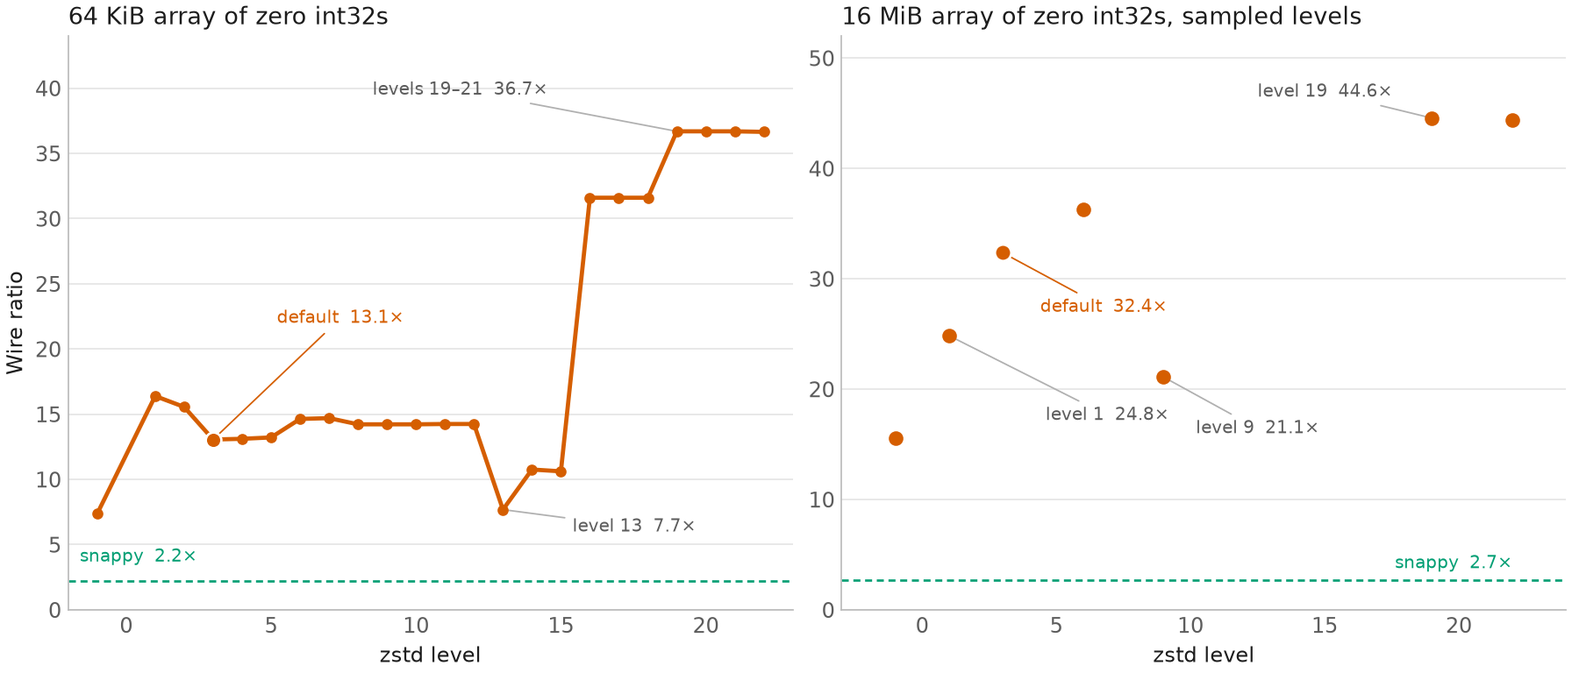
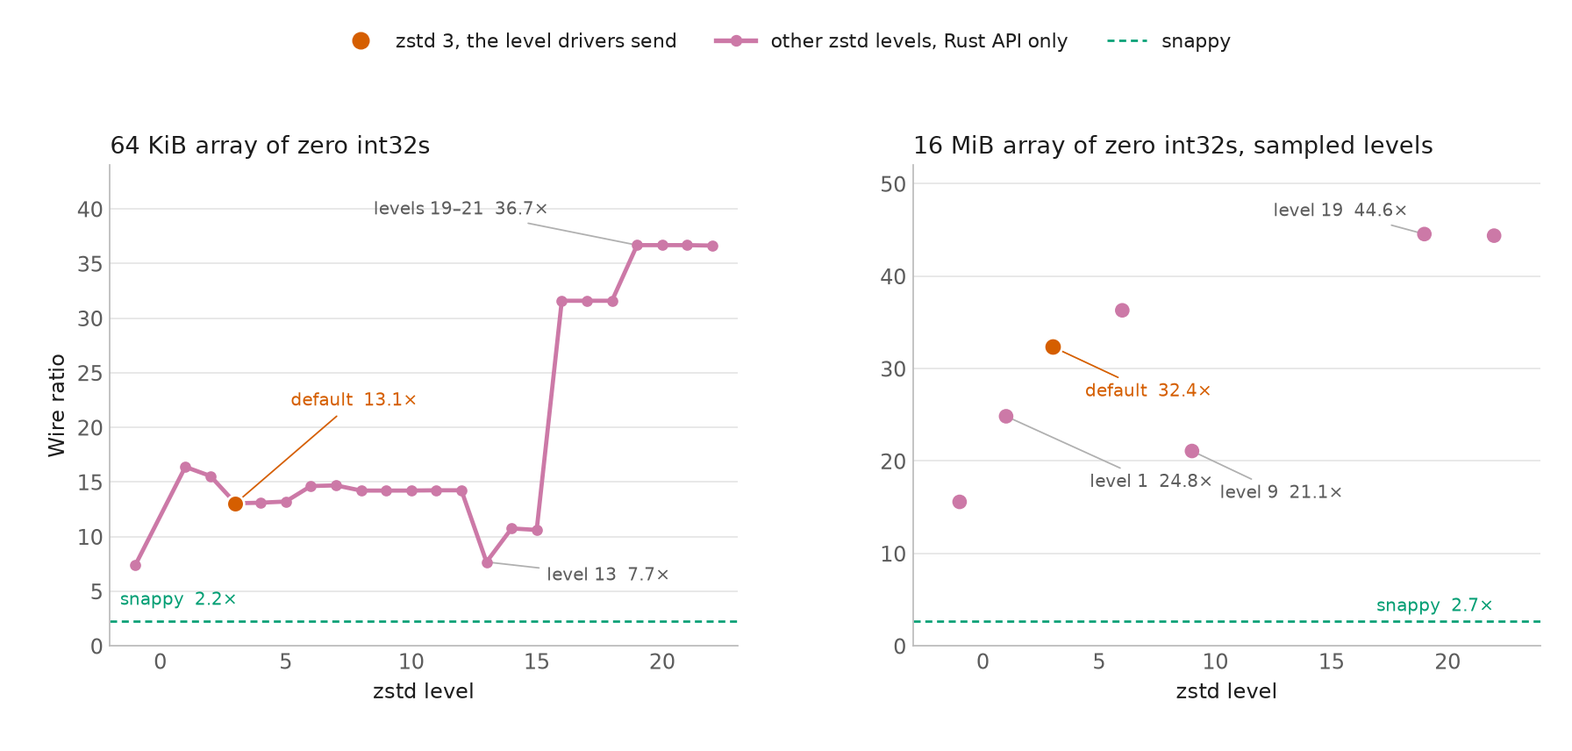
note which compressor levels the drivers can set

diff --git a/src/compressor-charts.py b/src/compressor-charts.py
@@ -24,6 +24,7 @@ with open(ROOT / "compressor-analysis.json") as f:
 
 ZLIB = "#0072B2"
 ZSTD = "#D55E00"
+RUST = "#CC79A7"
 SNAP = "#009E73"
 GRID = "#E6E6E6"
 INK = "#1c1c1c"
@@ -218,7 +219,8 @@ def combined_chart():
 
 
 def level_chart():
-    fig, axes = plt.subplots(1, 2, figsize=(11.2, 4.8), constrained_layout=True)
+    fig, axes = plt.subplots(1, 2, figsize=(11.2, 5.35))
+    fig.subplots_adjust(top=0.78, wspace=0.28, bottom=0.14, left=0.07, right=0.98)
 
     left = axes[0]
     rows = [
@@ -229,10 +231,10 @@ def level_chart():
     rows.sort(key=lambda r: r["level"])
     xs = [r["level"] for r in rows]
     ys = [r["wireRatio"] for r in rows]
-    left.plot(xs, ys, color=ZSTD, lw=2.15, zorder=3)
-    left.scatter(xs, ys, color=ZSTD, s=22, zorder=4)
+    left.plot(xs, ys, color=RUST, lw=2.15, zorder=3)
+    left.scatter(xs, ys, color=RUST, s=22, zorder=4)
     default = next(r for r in rows if r["level"] == 3)
-    left.scatter([3], [default["wireRatio"]], s=64, color=ZSTD, zorder=5, edgecolor="white", linewidth=1.2)
+    left.scatter([3], [default["wireRatio"]], s=78, color=ZSTD, zorder=5, edgecolor="white", linewidth=1.2)
     left.annotate(
         "default  13.1×",
         xy=(3, default["wireRatio"]),
@@ -284,12 +286,18 @@ def level_chart():
         and r["level"] in sampled
     ]
     mrows.sort(key=lambda r: r["level"])
-    right.scatter([r["level"] for r in mrows], [r["wireRatio"] for r in mrows], color=ZSTD, s=42, zorder=4)
+    right.scatter(
+        [r["level"] for r in mrows],
+        [r["wireRatio"] for r in mrows],
+        c=[ZSTD if r["level"] == 3 else RUST for r in mrows],
+        s=42,
+        zorder=4,
+    )
     d = next(r for r in mrows if r["level"] == 3)
     one = next(r for r in mrows if r["level"] == 1)
     nine = next(r for r in mrows if r["level"] == 9)
     top = next(r for r in mrows if r["level"] == 19)
-    right.scatter([3], [d["wireRatio"]], s=70, color=ZSTD, zorder=5, edgecolor="white", linewidth=1.2)
+    right.scatter([3], [d["wireRatio"]], s=84, color=ZSTD, zorder=5, edgecolor="white", linewidth=1.2)
     right.annotate("default  32.4×", xy=(3, d["wireRatio"]), xytext=(4.4, 27), fontsize=9, color=ZSTD,
                    arrowprops={"arrowstyle": "-", "color": ZSTD, "lw": 0.8})
     right.annotate("level 1  24.8×", xy=(1, one["wireRatio"]), xytext=(4.6, 17.2), fontsize=9, color=MUTED,
@@ -307,6 +315,15 @@ def level_chart():
     right.set_title("16 MiB array of zero int32s, sampled levels", loc="left", fontsize=12)
     right.grid(True, axis="y", color=GRID, lw=0.8)
     right.tick_params(length=0)
+    right.spines["top"].set_visible(False)
+    right.spines["right"].set_visible(False)
+
+    handles = [
+        Line2D([0], [0], color=ZSTD, marker="o", lw=0, ms=8, label="zstd 3, the level drivers send"),
+        Line2D([0], [0], color=RUST, lw=2.4, marker="o", ms=5, label="other zstd levels, Rust API only"),
+        Line2D([0], [0], color=SNAP, lw=1.2, ls=(0, (3, 2)), label="snappy"),
+    ]
+    fig.legend(handles=handles, loc="upper center", frameon=False, ncol=3, fontsize=10, bbox_to_anchor=(0.5, 0.98))
 
     fig.savefig(OUT / "levels.png", dpi=160)
     plt.close(fig)

diff --git a/Compressor analysis.md b/Compressor analysis.md
@@ -8,19 +8,21 @@ The pictures are the length surface of each carrier, then all five carriers on o
 
 ## Summary
 
-Repetitive BSON shrinks, and zstd shrinks it harder than zlib or snappy. On a 16 MiB string of zeros, zstd at its usual level reaches 28,728×, zlib 1,026×, and snappy 21×. A 16 MiB array of zero doubles still reaches 86× with zstd. An array of zero int32s does not, because the keys `"0"`, `"1"`, and so on are still in the document: zstd gets to 32×, zlib to 5.2×, snappy to 2.7×.
+Repetitive BSON shrinks, and zstd shrinks it harder than zlib or snappy. On a 16 MiB string of zeros, zstd at level 3 reaches 28,728×, zlib 1,026×, and snappy 21×. A 16 MiB array of zero doubles still reaches 86.4× with zstd. An array of zero int32s does not, because the keys `"0"`, `"1"`, and so on are still in the document: zstd gets to 32.4×, zlib to 5.2×, snappy to 2.7×.
 
-Random bytes do not shrink. A 16 MiB cryptographic binary is longer after framing for every compressor and every level in this grid. zstd adds 406 bytes, snappy 778, zlib 2,660. A random printable string measures about 6.55 bits per byte. It looks like text. zlib and zstd get it down to about 1.21×. Snappy is still 777 bytes over at 16 MiB.
+Random bytes do not shrink. A 16 MiB cryptographic binary is longer after framing for every compressor and every level in this grid. At the levels on the length charts, zstd adds 406 bytes, snappy 778, and zlib 2,660. A random printable string measures about 6.55 bits per byte. It looks like text. zlib and zstd get it down to about 1.21×. Snappy is still 777 bytes longer at 16 MiB.
 
 The saving does not start at the first byte. Under a few dozen bytes the 25-byte frame costs more than the compressor gives back. The Node driver and the Rust driver have no small-message cutoff, so that larger frame is what goes out.
 
-zstd level 3 is the usual client setting, and it is the level the server uses when it compresses a reply. It is a strong default, and it is not the top of the curve. On a 64 KiB array of zero int32s, level 1 is tighter than level 3, level 13 falls to 7.7×, and levels 19–21 reach 36.7×. On the 16 MiB version of that array the order changes, and level 3 beats level 1.
+zstd level 3 is the level these drivers send when zstd is left unset, and it is the level the server uses when it compresses a reply. It is a strong default, and it is not the top of the curve. On a 64 KiB array of zero int32s, level 1 is tighter than level 3, level 13 falls to 7.7×, and levels 19–21 reach 36.7×. Those other levels are a Rust-only request. On the 16 MiB version of that array the order changes, and level 3 beats level 1.
 
 ## How to read the charts
 
 Each carrier chart has three panels. The top is repetitive (rung 1), the middle is mixed (rung 5), and the bottom is nearly random (rung 10). The horizontal axis is the target document size, on a log scale, from 1 byte to the largest legal BSON document, 16 MiB. The vertical axis is the wire ratio, also on a log scale. Each panel has its own vertical scale, so a 20× curve and a 20,000× curve can both be read.
 
-Blue is zlib at level 6. On every paired cell in this grid, zlib level −1 matches level 6, and level 6 is what an omitted zlib level means on the Node driver. Orange is zstd at level 3, which is `zstd::DEFAULT_COMPRESSION_LEVEL`, the Rust driver's unset level, the Node driver's only level, and the server's reply. Green is snappy. Snappy has no level. The dashed line is a ratio of 1. Above it, the framed message is smaller. The pale vertical line is the first target that holds a real BSON document. To the left of that line the buffer is raw bytes.
+Blue is zlib at level 6. Level −1 matches it on every paired cell, and −1 is the library default. Orange is zstd at level 3, the level these drivers send when zstd is left unset, and the level the server uses on a reply. Green is snappy. Snappy has no level. The dashed line is a ratio of 1. Above it, the framed message is smaller. Below it, the frame made the message larger. The pale vertical line is the first target that holds a real BSON document. To the left of that line the buffer is raw bytes.
+
+The length charts draw those three defaults. The [level chart](#zstd-levels) draws every other measured zstd level in purple. Purple is a level the Rust driver can set in code. The connection string has no zstd level.
 
 The bits/byte in each panel title are measured on that panel's 64 KiB document. The rung number is the name of the generator. It is not the entropy.
 
@@ -51,6 +53,8 @@ The libraries are snap 1.1.2 (raw Snappy, the same framing as the server's `snap
 
 [`src/compressor-probe`](src/compressor-probe) is that program. With no arguments it writes `/tmp/compressor-grid.json` and `/tmp/compressor-digest.txt`. Two arguments are those two paths. It leaves the published grid where it is. Rung 10 is drawn again on every run, so a new file will not match the published rung 10 rows. [`src/compressor-charts.py`](src/compressor-charts.py) redraws the pictures from the JSON.
 
+The probe calls the Rust driver's libraries because that driver can name a zstd level and the others checked here cannot. The [compression spec](https://github.com/mongodb/specifications/blob/master/source/compression/OP_COMPRESSED.md) defines one level, `zlibCompressionLevel`, from −1 to 9. It calls −1 the library default, 0 no compression, 1 the fastest, and 9 the best compression. Snappy has no level. zstd was added later, and the spec still has no zstd level. Rust mongodb 3.10.1 exposes `Compressor::Zstd { level }` anyway: any value `zstd::compression_level_range()` returns, or `None` for level 3. The URI still only carries the zlib level. The [level chart](#zstd-levels) draws the Rust-only levels in purple, and the table under it lists what Node, PyMongo, and the Java driver can set.
+
 Wire compressor ids are noop 0, snappy 1, zlib 2, zstd 3. The length curves use zlib 6, zstd 3, and snappy, at rungs 1, 5, and 10. zstd levels 10–22 are on the 64 KiB sweep, and levels 19 and 22 are also on the 16 MiB sample for int32 and binary. They are not on the length curves. The full cross of every level, every rung, and every size was not run.
 
 | Slice | What it is |
@@ -66,7 +70,7 @@ Wire compressor ids are noop 0, snappy 1, zlib 2, zstd 3. The length curves use 
 
 An int32 array never becomes a run of zeros. Even rung 1 carries the keys, so the top panel tops out in the tens rather than the thousands. zstd pulls away from zlib once the document is past a few hundred bytes and finishes at 32.4×, against 5.2× for zlib and 2.7× for snappy. The middle panel is the same shape with a lower ceiling: 30.2× for zstd at 16 MiB.
 
-The bottom panel is a fresh cryptographic draw in each integer, and it still shrinks. The keys and the 4-byte layout keep the 64 KiB document near 6.14 bits/byte rather than 8, and zstd finishes at 1.84×. Snappy is the late one. It is still longer than the original at 64 KiB (14 bytes over, ratio 0.999786) and crosses under at 128 KiB. zlib and zstd have already crossed at 256 bytes.
+The bottom panel is a fresh cryptographic draw in each integer, and it still shrinks. The keys and the 4-byte layout keep the 64 KiB document near 6.14 bits/byte rather than 8, and zstd finishes at 1.84×. Snappy is the late one. It is still below the line at 64 KiB (14 bytes longer, ratio 0.999786) and above it from 128 KiB. zlib and zstd are still below the line at 256 bytes and above it from 512.
 
 The orange line is not smooth. zstd at level 3 gains, flattens, and gains again as the array grows. That is the same compressor refusing to be a straight function of size. The level chart later shows it refusing to be a straight function of the level either.
 
@@ -76,17 +80,17 @@ The orange line is not smooth. zstd at level 3 gains, flattens, and gains again 
 
 Zero doubles have more repeated bytes than zero int32s, and the ceiling shows it. zstd finishes the top panel at 86.4×, zlib at 6.7×, snappy at 3.2×.
 
-Look at the pale line in the top panel. That is the first real document, 56 bytes inside a 64-byte target. zstd is already under the original on the 32-byte raw buffer (ratio 1.142857) and pops back over the line on that first document (0.974684). From 128 bytes on it stays under. The dip is the change from a raw buffer to a document, not a change in the compressor. Snappy does a smaller version of the same notch on the middle panel: under on the 32-byte raw buffer (1.043478), one byte over on the first document (0.987179), then under from 128 bytes.
+Look at the pale line in the top panel. That is the first real document, 56 bytes inside a 64-byte target. zstd is already above the line on the 32-byte raw buffer (ratio 1.142857) and drops back below it on that first document (0.974684). From 128 bytes on it stays above. The dip is the change from a raw buffer to a document, not a change in the compressor. Snappy does a smaller version of the same notch on the middle panel: above the line on the 32-byte raw buffer (1.043478), one byte longer on the first document (0.987179), then above the line from 128 bytes.
 
-On nearly random doubles, zlib and zstd cross under at 512 bytes and finish near 1.45× and 1.47×. Snappy needs the document to pass 64 KiB. It is under by 1 MiB, at 1.087×, and 1.128× at the max document. On the repetitive panel, snappy's last over target is 16 bytes. zstd's is 64, because of that notch at the first document.
+On nearly random doubles, zlib and zstd are still below the line at 512 bytes and above it from 1 KiB, finishing near 1.45× and 1.47×. Snappy is still below the line at 64 KiB and above it from 128 KiB. It is 1.087× at 1 MiB and 1.128× on the max document. On the repetitive panel, snappy's last target below the line is 16 bytes. zstd's is 64, because of that notch at the first document.
 
 ## decimal128
 
 ![decimal128 wire ratio against document size, for repetitive, mixed, and nearly random values](compressor-analysis/decimal128.png)
 
-Until the bytes are actually random, this is the most compressible number in the set. The value lives in the low bytes and the high bytes stay zero, so a zero decimal128 is mostly a run of zeros with a little structure. The 64 KiB document measures 1.457 bits/byte. zstd finishes rung 1 at 60.3×, zlib at 9.1×, snappy at 4.8×. On this rung all three are still longer than the original at 16 bytes and shorter from 32 bytes on. Snappy then loses the ratio.
+Until the bytes are actually random, this is the most compressible number in the set. The value lives in the low bytes and the high bytes stay zero, so a zero decimal128 is mostly a run of zeros with a little structure. The 64 KiB document measures 1.457 bits/byte. zstd finishes rung 1 at 60.3×, zlib at 9.1×, snappy at 4.8×. On this rung all three are still below the line at 16 bytes and above it from 32. At 32 bytes snappy is the tightest of the three, 1.55×, and from 128 bytes it falls behind.
 
-Rung 10 fills all 16 bytes from the CSPRNG. Those bytes are not a validated Decimal128. The 64 KiB document is the noisiest number in the grid, 7.476 bits/byte, and the win shrinks to 1.25× for zstd, 1.23× for zlib, and 1.08× for snappy. Snappy is over through 64 KiB and under from 128 KiB, same as the other numeric rung-10 rows.
+Rung 10 fills all 16 bytes from the CSPRNG. Those bytes are not a validated Decimal128. The 64 KiB document is the noisiest number in the grid, 7.476 bits/byte. At that size zstd is 1.06× and zlib is 1.12×. Snappy stays below the line through 64 KiB and goes above it from 128 KiB, same as the other numeric rung-10 rows. At 16 MiB the ratios are 1.25× for zstd, 1.23× for zlib, and 1.08× for snappy.
 
 The zlib curve on rung 1 is not perfectly smooth. It is 8.6879× at 64 KiB, 8.6753× at 1 MiB, and 9.0757× at the max document. The 1 MiB point is a hair looser than the 64 KiB point. The data did not get harder. The compressor found a slightly worse block split.
 
@@ -96,9 +100,9 @@ The zlib curve on rung 1 is not perfectly smooth. It is 8.6879× at 64 KiB, 8.67
 
 This chart is a different instrument. A string of zero bytes measures 0.003 bits/byte. zstd keeps finding a smaller encoding as the run gets longer: 1,009× at 64 KiB, 10,083× at 1 MiB, 28,728× at 16 MiB. zlib climbs and then flattens: 504×, 966×, 1,026×. Snappy is already 20.9× at 64 KiB and only inches up to 21.3× at 16 MiB. More of the same zero does not buy snappy another factor of a thousand.
 
-The middle panel is a repeated phrase, 4.002 bits/byte, and the shape repeats at a lower ceiling. zstd finishes at 10,376×. Snappy is still about 21×. The entropy number says this phrase is "more random" than an int32 array at 3.37 bits/byte. The ratios disagree: that int32 array finishes at 30× with zstd, and this phrase finishes at 10,376×. Bits per byte are the right axis label and a poor universal predictor. The carrier decides.
+The middle panel is a repeated phrase, 4.002 bits/byte, and the shape repeats at a lower ceiling. zstd finishes at 10,376×. Snappy is still about 21×. The entropy number says this phrase is "more random" than an int32 array at 3.37 bits/byte. The ratios disagree: that int32 array finishes at 30.2× with zstd, and this phrase finishes at 10,376×. Bits per byte are the right axis label and a poor universal predictor. The carrier decides.
 
-The bottom panel is the one to be careful with. Rung 10 maps random bytes into 95 printable characters, so it measures 6.548 bits/byte on this draw and looks like text. zlib and zstd cross under after 256 bytes and are essentially done by 1 MiB, at about 1.21×. From 1 MiB to 16 MiB, zlib moves from 1.206653× to 1.206659×. Snappy never crosses. At 16 MiB the framed snappy message is 777 bytes longer than the original.
+The bottom panel is the one to be careful with. Rung 10 maps random bytes into 95 printable characters, so it measures 6.548 bits/byte on this draw and looks like text. zlib and zstd are still below the line at 256 bytes and above it from 512, and they are essentially done by 1 MiB, at about 1.21×. From 1 MiB to 16 MiB, zlib moves from 1.206653× to 1.206659×. Snappy stays below the line. At 16 MiB the framed snappy message is 777 bytes longer than the original.
 
 ## binary
 
@@ -106,7 +110,7 @@ The bottom panel is the one to be careful with. Rung 10 maps random bytes into 9
 
 The top two panels match the string. A run of zero bytes is a run of zero bytes, whether the BSON type is string or binary. At 1 MiB, zlib is 966.4488× on both and zstd is 10,082.6635× on both. At the max document zlib is 1,025.4408× on the binary and 1,025.5035× on the string. The keys in an int32 array are what break that match. The same zlib level on a zero int32 array is 5.2×.
 
-The bottom panel does not match the string, because rung 10 here is raw CSPRNG, 7.997 bits/byte, with no alphabet to hide in. Every compressor stays under the dashed line at every sampled size, including 16 MiB. Raising the level does not fix it. At 64 KiB, every zstd level from −1 through 22 is the same 19 bytes over (ratio 0.999710). At 16 MiB, zstd is 406 bytes over, snappy 778, and zlib 2,660. zlib level 1 is worse on that document: 15,514 bytes over, ratio 0.999076. There is no level in this grid at which a cryptographic binary should be wrapped.
+The bottom panel does not match the string, because rung 10 here is raw CSPRNG, 7.997 bits/byte, with no alphabet to hide in. Every compressor stays below the dashed line at every sampled size, including 16 MiB. Raising the level does not fix it. At 64 KiB, every zstd level from −1 through 22 is the same 19 bytes longer (ratio 0.999710). At 16 MiB, snappy is 778 bytes longer. zstd is 406 bytes longer at every sampled level except level 22, which is one byte less. zlib is 2,660 bytes longer at every sampled level except level 1, which is 15,514 bytes longer, ratio 0.999076. There is no level in this grid at which a cryptographic binary should be wrapped.
 
 ## All five carriers
 
@@ -114,15 +118,15 @@ The bottom panel does not match the string, because rung 10 here is raw CSPRNG, 
 
 Read the top row from left to right and the carrier is the whole story. The zero string and the zero binary leave the chart. The zero decimal128 and the zero double follow, well above the int32 array, which is held down by its keys. Snappy's green line barely leaves the bottom of those two right-hand panels. On a pure run it has a ceiling near 21×, and zstd does not.
 
-Read the bottom row and the order changes in the way the entropy would have suggested. The numeric arrays cannot be pure noise, so they finish above the line: int32 highest, then double, then decimal128. The printable string just clears the line for zlib and zstd, and snappy sits on it from underneath. The cryptographic binary never clears it. The shared scale makes that last panel look empty. It is empty on purpose. A ratio of 0.999976 and a ratio of 1 are the same pixel, which is why the byte counts are the number to keep.
+Read the bottom row and the order changes in the way the entropy would have suggested. The numeric arrays cannot be pure noise, so they finish above the line: int32 highest, then double, then decimal128. The printable string just clears the line for zlib and zstd, and snappy stays just below it. The cryptographic binary never clears it. The shared scale makes that last panel look empty. It is empty on purpose. A ratio of 0.999976 and a ratio of 1 are the same pixel, which is why the byte counts are the number to keep.
 
 A single bits/byte figure does not place a payload on one of these curves. String rung 5 is 4.00 bits/byte and zstd's ratio at 1 MiB is 5,924×. int32 rung 5 is 3.37 bits/byte and the ratio is 14.3×. The string is the higher entropy estimate and the vastly easier payload, because one of them is a repeated phrase and the other is keys plus integers.
 
-At 1 MiB, zlib level 6 beats zstd level 3 on a handful of mid-entropy rows: double rung 8 (2.4919× against 2.2528×) and decimal128 rungs 7, 8, and 9 (3.4225× against 3.2770×, 3.8855× against 3.6416×, 2.0305× against 1.9601×). Everywhere else in that slice, zstd 3 is tighter, usually by a lot. Snappy is the loosest of the three on the repetitive rows and the first to give up as the bytes get noisier. From rung 8 up, snappy is over the original on both string and binary.
+At 1 MiB, zlib level 6 beats zstd level 3 on a handful of mid-entropy rows: double rung 8 (2.4919× against 2.2528×) and decimal128 rungs 7, 8, and 9 (3.4225× against 3.2770×, 3.8855× against 3.6416×, 2.0305× against 1.9601×). Everywhere else in that slice, zstd 3 is tighter, usually by a lot. Snappy is the loosest of the three on the repetitive rows and the first to give up as the bytes get noisier. From rung 8 up, snappy is below the line on both string and binary.
 
 ### Where the framed message stops being larger
 
-This is the largest sampled target that is still longer than the original. On the double charts the line is crossed twice, so the number here is the later one. The dips are the notches at the first document, described above. Bits are the length-slice document at 64 KiB.
+This is the largest sampled target still below the line, the last size at which the framed message is longer than the original. On the double charts the line is crossed twice, so the number here is the later one. The dips are the notches at the first document, described above. Bits are the length-slice document at 64 KiB.
 
 | Carrier | Rung | Bits at 64 KiB | zlib 6 | zstd 3 | snappy |
 | --- | --- | --- | --- | --- | --- |
@@ -144,7 +148,7 @@ This is the largest sampled target that is still longer than the original. On th
 
 ### Ratio at 16 MiB
 
-The same length curve, at the max document. A ratio under 1 is six decimals so it does not round to 1.0000. The string rung 10 zlib cells are six decimals for the same reason.
+The same length curve, at the max document. A ratio below 1 is six decimals so it does not round to 1.0000. The string rung 10 zlib cells are six decimals for the same reason.
 
 | Carrier | Rung | zlib 6 | zstd 3 | snappy |
 | --- | --- | --- | --- | --- |
@@ -157,24 +161,34 @@ The same length curve, at the max document. A ratio under 1 is six decimals so i
 | decimal128 | 1 | 9.0757 | 60.3339 | 4.7988 |
 | decimal128 | 5 | 8.5267 | 57.1260 | 4.2628 |
 | decimal128 | 10 | 1.2317 | 1.2508 | 1.0796 |
-| string | 1 | 1025.5035 | 28728.1455 | 21.3179 |
-| string | 5 | 513.9927 | 10375.5331 | 21.2144 |
+| string | 1 | 1,025.5035 | 28,728.1455 | 21.3179 |
+| string | 5 | 513.9927 | 10,375.5331 | 21.2144 |
 | string | 10 | 1.206659 | 1.2106 | 0.999954 |
-| binary | 1 | 1025.4408 | 28728.1455 | 21.3179 |
-| binary | 5 | 514.0085 | 10369.1205 | 21.2144 |
+| binary | 1 | 1,025.4408 | 28,728.1455 | 21.3179 |
+| binary | 5 | 514.0085 | 10,369.1205 | 21.2144 |
 | binary | 10 | 0.999841 | 0.999976 | 0.999954 |
 
 ## zstd levels
 
-![zstd wire ratio by level. Left, every level on a 64 KiB array of zero int32s. Right, the sampled levels on the 16 MiB version of that array. Snappy is the green dashed line.](compressor-analysis/levels.png)
+![zstd wire ratio by level. Orange is level 3, the level drivers send. Purple is every other measured level, which only the Rust API can set. Left, the 64 KiB array of zero int32s. Right, the sampled levels on the 16 MiB version. Snappy is the green dashed line.](compressor-analysis/levels.png)
 
-The left chart is one document, a 64 KiB array of zero int32s, run through every zstd level this library accepts from −1 to 22. Level 3, the default, sits in a sag at 13.1×. Level 1, to its left, is 16.4×. The curve then bumps along, drops to 7.7× at level 13, jumps, and peaks at levels 19–21 at 36.7×. Level 22 is a hair looser, 36.6×. Level −1 is inside the legal range (measured here as −131072 through 22) and it is not a spelling of the default. It is a fast level, and on this document it is 7.4×. It matched level 3 on 13 of the 54 paired cells in the grid, all of them string or binary, and it differed on the other 41. Every numeric pair differed.
+The left chart is one document, a 64 KiB array of zero int32s, run through every zstd level this library accepts from −1 to 22. The orange point is level 3, in a sag at 13.1×. That is the level these drivers send when zstd is left unset. The purple curve is the rest, and it is a Rust-only request. Level 1, to the left of the orange point, is 16.4×. The curve then bumps along, drops to 7.7× at level 13, jumps, and peaks at levels 19–21 at 36.7×. Level 22 is a hair looser, 36.6×. Level −1 is inside the legal range (measured here as −131072 through 22) and it is a fast level of its own, 7.4× on this document. It matched level 3 on 13 of the 54 paired cells in the grid, all of them string or binary, and it differed on the other 41. Every numeric pair differed.
 
 The right chart is the same kind of array at 16 MiB, at the levels there was time to run. The dots are those levels. Nothing was measured between them. The sag has moved. Level 3 is now 32.4× and beats level 1 at 24.8×. Level 9, which is an easy number to reach for, is the loosest of the positive levels in the sample, 21.1×. Level 19 is the tightest, 44.6×, and level 22 is 44.4×. Level −1 is 15.6×. Snappy, with nothing to turn, is 2.7× on this document and 2.2× on the 64 KiB one. Even the worst zstd level in either chart beats snappy on this particular array. That is a statement about zero int32s, not about the cryptographic binary, where every zstd level loses.
 
-zlib has its own small version of this. On the 16 MiB zero int32 array, level 3 is the tightest of the sampled zlib levels at 6.21×, and level 6, the default match, is 5.21×. Level 9 is 5.2075×, slightly looser than level 6. Level 0 is store. It is 2,660 bytes over on that document, ratio 0.999841. Level −1 matches level 6 on all 479 paired cells.
+zlib has its own small version of this. The spec calls level 9 the best compression. On the 16 MiB zero int32 array, level 3 is the tightest of the sampled zlib levels at 6.21×, and level 6, the default match, is 5.21×. Level 9 is 5.2075×, slightly looser than level 6. Level 0 is store. It is 2,660 bytes longer on that document, ratio 0.999841. Level −1 matches level 6 on all 479 paired cells. Blue on the length charts is that level 6. The other zlib levels are a URI option, from −1 to 9, so they are not drawn in purple.
 
-The reply does not follow the client level. `session_workflow.cpp` answers a compressed request with the same compressor id, at the server's own level: `Z_DEFAULT_COMPRESSION` for zlib and `ZSTD_CLEVEL_DEFAULT` for zstd. A client that negotiates zstd and sends level 19 still reads a level-3 reply. There is no URI key for a zstd level. Node hardcodes 3. Rust mongodb 3.10.1 can set `Compressor::Zstd { level }` in code, `None` means 3, and `validate()` rejects a level outside the library range. The features `zstd-compression`, `zlib-compression`, and `snappy-compression` are off unless enabled.
+Which levels a caller can actually set depends on the driver. This is not a universal feature.
+
+| Compressor | Connection string | Rust code | Node, PyMongo, Java |
+| --- | --- | --- | --- |
+| snappy | No level | No level | No level |
+| zlib | −1 to 9 | 0 to 9, or unset for the flate2 default | Node publishes 0 to 9, and 0 selects the default. PyMongo and Java take −1 to 9 |
+| zstd | None | Any level in the library range, or unset for 3 | 3 only |
+
+Rust's `validate()` rejects a zstd level outside `zstd::compression_level_range()`. The three compression features are off unless the crate is built with them. PyMongo calls `zstd.compress` with no level. The Java driver calls `Zstd.defaultCompressionLevel()`. Node hardcodes `ZSTD_COMPRESSION_LEVEL = 3`.
+
+The reply does not follow the client level. `session_workflow.cpp` answers a compressed request with the same compressor id, at the server's own level: `Z_DEFAULT_COMPRESSION` for zlib and `ZSTD_CLEVEL_DEFAULT` for zstd. A client that negotiates zstd and sends level 19 still reads a level-3 reply.
 
 ## What the drivers send
 
@@ -184,7 +198,7 @@ mongosh 2.14.2, Node driver `OpCompressedRequest.toBin`, wraps a compressible co
 
 The log line "Compressed message would be larger than maximum allowed" is a different check. `MaxMessageSizeBytes` is `48 * 1000 * 1000`. `MessageCompressorManager::compressMessage` returns the original message when the worst-case compressed buffer, plus the 9-byte details and the 16-byte header, would exceed that. For zlib the bound first exceeds 48,000,000 at body length 47,985,319. The grid records that length as `guardTripsAtBody`. No body in this grid trips it. A legal document is at most 16 MiB. The short-message expansion is the frame.
 
-On an incompressible input the compressor keeps the bytes and adds a frame, which is why the ratio sits just under 1 instead of falling apart. At 16 MiB of cryptographic binary the zstd frame adds 397 bytes and the 9-byte details make 406 on the wire. zlib's stored-block framing is the 2,660 bytes. Snappy's is the 778.
+On an incompressible input the compressor keeps the bytes and adds a frame, which is why the ratio sits just below 1 instead of falling apart. At 16 MiB of cryptographic binary, zstd at level 3 adds a 397-byte frame and the 9-byte details make 406 on the wire. zlib's stored-block framing is the 2,660 bytes. Snappy's is the 778.
 
 flate2 level 0 is store, and that is what Rust sends for level 0. The Node driver sets a zlib level only when `zlibCompressionLevel` is truthy, and `compressCommand` passes `description.zlibCompressionLevel ?? 0`, so an omitted level and an explicit 0 both take the default on that driver. The level 0 row in the JSON is the store row. It is not the row this Node driver sends for 0. The Rust URI accepts `zlibCompressionLevel` −1 as the flate2 default, which matched level 6 here, and rejects values above 9 and negatives other than −1. A sweep of the client zlib level moves the request only.
 
@@ -198,13 +212,13 @@ Snappy has no level. This mongosh has no `snappy` module, so the Node driver on 
 
 Turn zstd on for ordinary documents, logs, and low-cardinality fields. That is where the wire saving is large, and where zlib and snappy, while useful, leave most of it behind. The int32 charts are the reminder that "ordinary" includes the keys. An array of integers compresses like an array of keys, not like a string of the values.
 
-Leave compression off when the payload is ciphertext, a compressed blob, or any other near-random binary. Every level in this grid still adds a frame, and within a legal document the ratio does not come back under 1. Printable random text is the awkward middle. zlib and zstd reach about 1.21×, and snappy costs bytes at every size.
+Leave compression off when the payload is ciphertext, a compressed blob, or any other near-random binary. Every level in this grid still adds a frame, and within a legal document the ratio stays below 1. Printable random text is the awkward middle. zlib and zstd reach about 1.21×, and snappy costs bytes at every size.
 
 Keep snappy in the negotiated list when the peer supports it and the payload is repetitive. It starts helping at slightly smaller sizes than zstd on some of the numeric rows, because its wrapper is slimmer, and it stops helping sooner as the bytes get noisier. It has no level to get wrong. It will not do for a cryptographic binary what it does for a run of zeros, and on a run of zeros it flattens near 21× while zstd keeps going. This mongosh build does not include the module. The Rust driver can, behind a feature that is off by default. The server's default list is `snappy,zstd,zlib`, and negotiation walks the client's list.
 
-Leave zstd at level 3 unless a measured payload says otherwise, and remember that the reply stays at 3 either way. The left-hand level chart is one document on which level 1 beats the default and level 19 beats both. The right-hand chart is the same document grown to 16 MiB, and there the default beats level 1 while level 9 is a step backwards. A higher number is not a tighter message. Node cannot set the level. Rust can, in code, with no URI key. Tuning it changes the request only.
+Leave zstd at level 3, the orange point, unless a measured payload says otherwise. The reply stays at 3 either way. On the 64 KiB zero int32 array the purple levels include a tighter level 1 and a tighter band at 19–21. On the same array at 16 MiB, level 3 beats level 1 and level 9 is a step backwards. A higher number is not a tighter message. Node, PyMongo, and the Java driver have no zstd level to change. Rust can change it in code, and the connection string still cannot. Tuning it changes the request only.
 
-The small-message penalty is real, and it is not the 48,000,000 guard. Below a few dozen bytes the frame dominates, the ratio drops under 1, and the driver sends the framed message anyway. The guard is a worst-case allocation check that a legal document never reaches.
+The small-message penalty is real, and it is not the 48,000,000 guard. Below a few dozen bytes the frame dominates, the ratio drops below 1, and the driver sends the framed message anyway. The guard is a worst-case allocation check that a legal document never reaches.
 
 ## Appendix
 
@@ -233,12 +247,12 @@ Level 1 is tighter than level 3 on this slice for int32 rungs 1, 2, 5, 6, and 8 
 
 | Rung | int32 | double | decimal128 | string | binary |
 | --- | --- | --- | --- | --- | --- |
-| 1 | 17.7719 | 25.1981 | 40.9238 | 10082.6635 | 10082.6635 |
-| 2 | 17.8175 | 24.7112 | 40.5864 | 6393.8841 | 6355.1333 |
-| 3 | 4.6336 | 8.5914 | 10.0399 | 2502.6181 | 2496.6595 |
-| 4 | 8.2141 | 15.9978 | 14.6386 | 2502.6181 | 2496.6595 |
-| 5 | 14.3402 | 18.9086 | 31.1885 | 5924.2768 | 5890.9944 |
-| 6 | 17.3983 | 23.0876 | 37.5287 | 5698.8967 | 5668.0919 |
+| 1 | 17.7719 | 25.1981 | 40.9238 | 10,082.6635 | 10,082.6635 |
+| 2 | 17.8175 | 24.7112 | 40.5864 | 6,393.8841 | 6,355.1333 |
+| 3 | 4.6336 | 8.5914 | 10.0399 | 2,502.6181 | 2,496.6595 |
+| 4 | 8.2141 | 15.9978 | 14.6386 | 2,502.6181 | 2,496.6595 |
+| 5 | 14.3402 | 18.9086 | 31.1885 | 5,924.2768 | 5,890.9944 |
+| 6 | 17.3983 | 23.0876 | 37.5287 | 5,698.8967 | 5,668.0919 |
 | 7 | 3.9270 | 4.5692 | 3.2770 | 1.9990 | 1.9990 |
 | 8 | 1.9672 | 2.2528 | 3.6416 | 1.5318 | 1.5318 |
 | 9 | 1.8333 | 2.2926 | 1.9601 | 1.2036 | 1.2036 |
